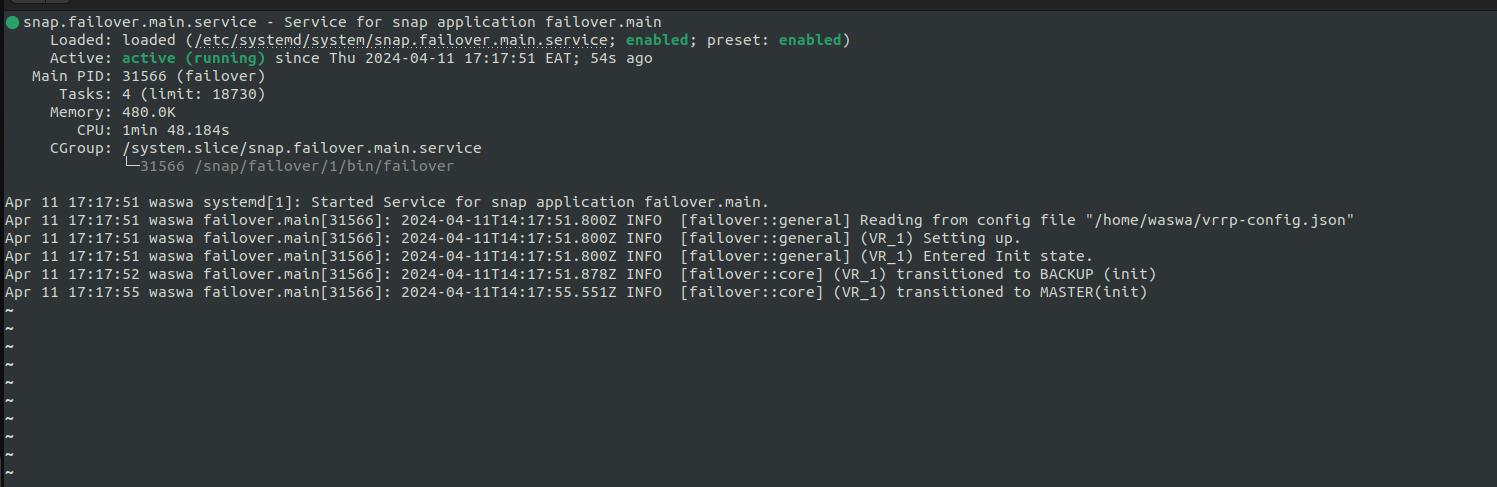
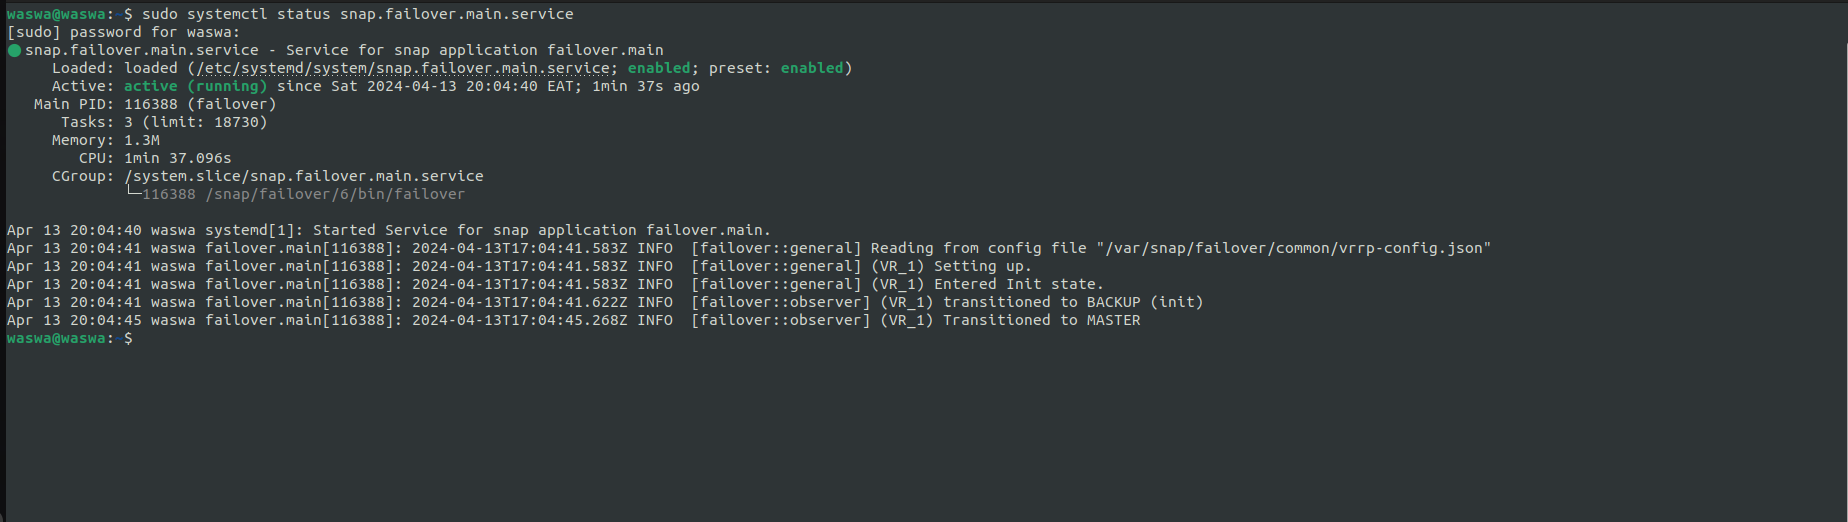
Modify the README.md

Changed region(s): [[0.0, 0.0, 0.9218, 0.6776]]

diff --git a/README.md b/README.md
@@ -3,32 +3,10 @@
 [![Get it from the Snap Store](https://snapcraft.io/static/images/badges/en/snap-store-black.svg)](https://snapcraft.io/failover)
 
 
-$\text{\color{red}Major performance issues currently being dealt with}$
-
 # Failover
 
-## Installation via snap
-Failover is a VRRP implementation currently configured for debian instances.
-
-To install failover, run the following command:
-
-```bash
-snap install failover
-```
-with this, we should see failover when we run the `snap list` command.
-
-
-When failover is installed, it automatically starts a systemd service that can be viewed via systemstl. 
-When we `sudo systemctl status snap.failover.main.service`, we should see:
-
-![systemctl screenshot](images/failover.png)
-
-That indicates that Failover is running as a daemon in on our system. 
-
-
-
 ### Config 
-The following are the configurations that can be made on a <u>Failover</u> Virtual Router:
+The following are the items that can be configured on <u>Failover</u>:
 
     - *name 
     - *Virtual Router ID
@@ -40,36 +18,60 @@ The following are the configurations that can be made on a <u>Failover</u> Virtu
 
     * Compulsory fields.  
 
-When installed via snap, Failover fetches configurations from /`snap/failover/bin/vrrp-config.json` file by default. 
 
-**Make sure to change the fields in this `/snap/failover/bin/vrrp-config.json` file to suite your personal environment**
+## Installation via snap
+Failover is a VRRP implementation currently configured for debian instances.
 
+To install failover, run the following command:
 
+```sh
+snap install failover --devmode --edge
+```
+with this, we should see failover when we run the `snap list` command.
 
-### File config
-The following is a sample of how our vrrp-config.json file will look like:
+*Due to restrictions from the snap store, we can only run --edge and --beta*
 
-```json
-{
-    "name": "VR_1",
-    "vrid": 51,
-    "interface_name": "wlo1",
-    "ip_addresses": [ 
-        "192.168.100.100/24"
-    ],
-    "priority": 10,
-    "advert_interval": 1,
-    "preempt_mode": true
-}
+When failover is installed, it automatically starts a systemd service that can be viewed via systemstl. 
+When we `sudo systemctl status snap.failover.main.service`, we should see:
+
+![systemctl screenshot](images/failover.png)
+
+That indicates that Failover is running as a daemon in on our system. 
+
+If there is a problem with the running of Failover, view the logs with the following command:
+```sh
+journalctl -xeu snap.failover.setup.service
 ```
 
-For each of the ip addresses specified in the `ip_addresses` field, if we are MASTER in the VRRP process we take part in, the ip address(es) will be added to the interface specified in the `interface_name` field.
+Also, feel free to raise an [issue](https://github.com/Paul-weqe/failover/issues) in case of anything.  
 
-For example, in the JSON file above, we have a single IP address (192.168.100.100/24). This will be how the address will look for `wlo1`:
+When installed via snap, Failover fetches configurations from `/var/snap/failover/common/vrrp-config.json` file by default. The configurations 
 
-![failover-interface](images/failover-interface.png)
+**Make sure to change the fields in this `/var/snap/failover/common/vrrp-config.json` file to suite your personal environment. Sample configs are shown on [sample config](https://github.com/Paul-weqe/failover/blob/main/sample-vrrp-config.json).**
 
-*This address will automatically be deleted once the Failover service is stopped.*
 
-More documentation is still being worked on.
-Will be ready to view [here](https://failover-docs.readthedocs.io/en/latest/). 
+## Running Failover from local build. 
+
+Failover can also be built and run manually via cargo. To install cargo, follow [this guide](https://doc.rust-lang.org/cargo/getting-started/index.html).
+
+You can run the project using the command:
+```sh
+cargo run --bin failover
+```
+
+Since VRRP creates virtual IP addresses on one of our system's interfaces, we should do a teardown to remove the IP addresses from the system once Failover is done running:
+```sh
+cargo run --bin failover --teardown
+```
+
+To simplify the two commands above, we can run: 
+
+```sh
+./run
+```
+
+When running from a local build, by default the `/etc/failover/vrrp-config.json` file will be used as our configuration file. Take [this](https://github.com/Paul-weqe/failover/blob/main/sample-vrrp-config.json) as a sample of how your JSON config file should look like. 
+
+$\text{\color{red}More documentation is still being worked on.}$
+
+Will be ready to view in due time [here](https://failover-docs.readthedocs.io/en/latest/). 
